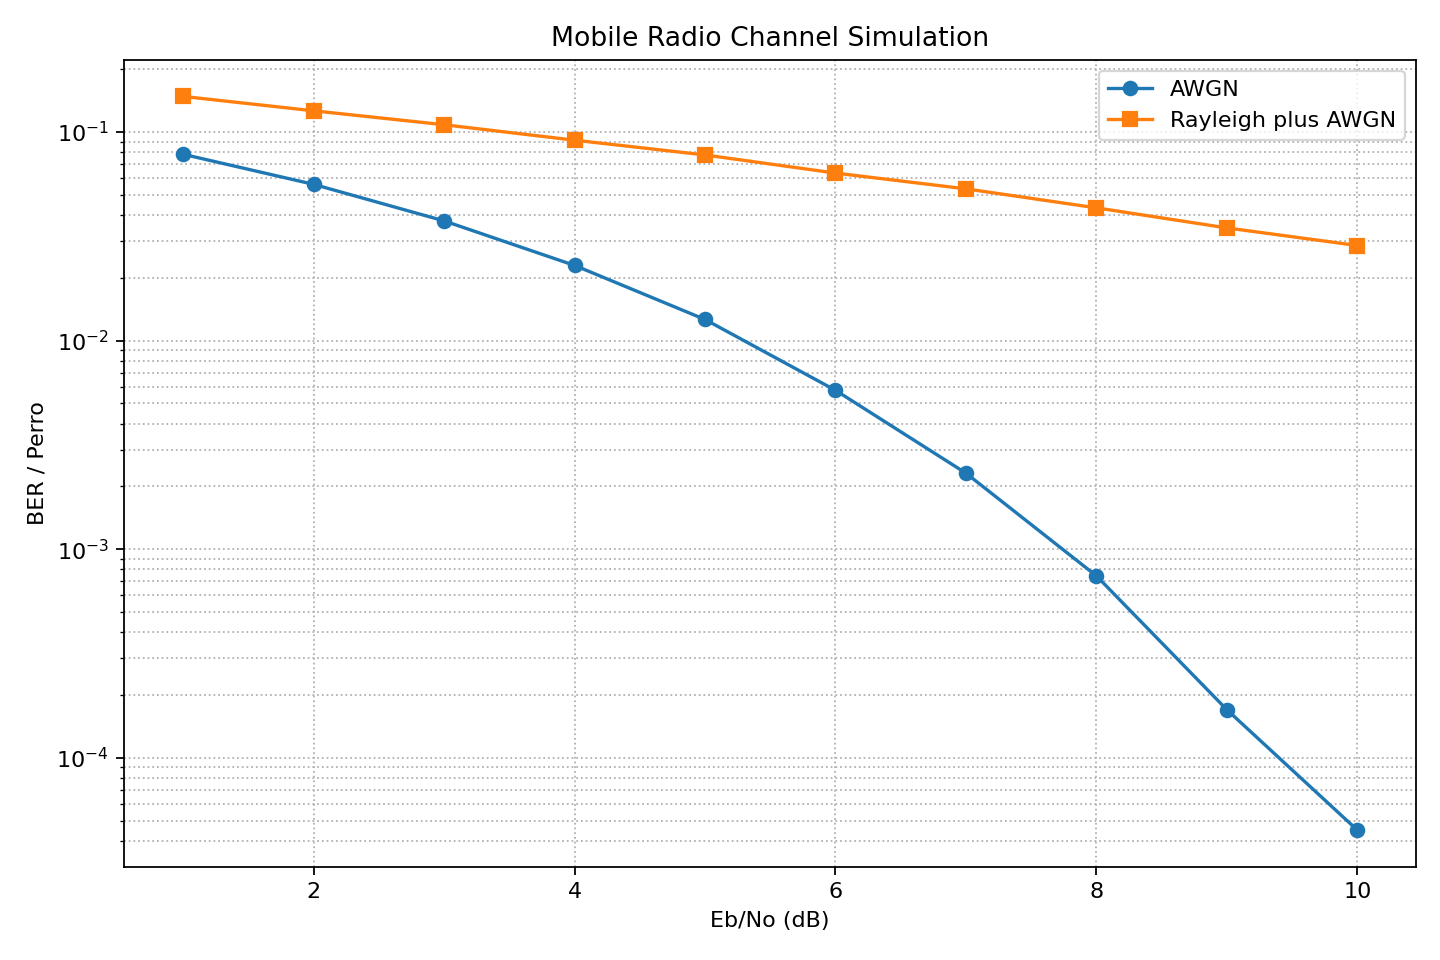
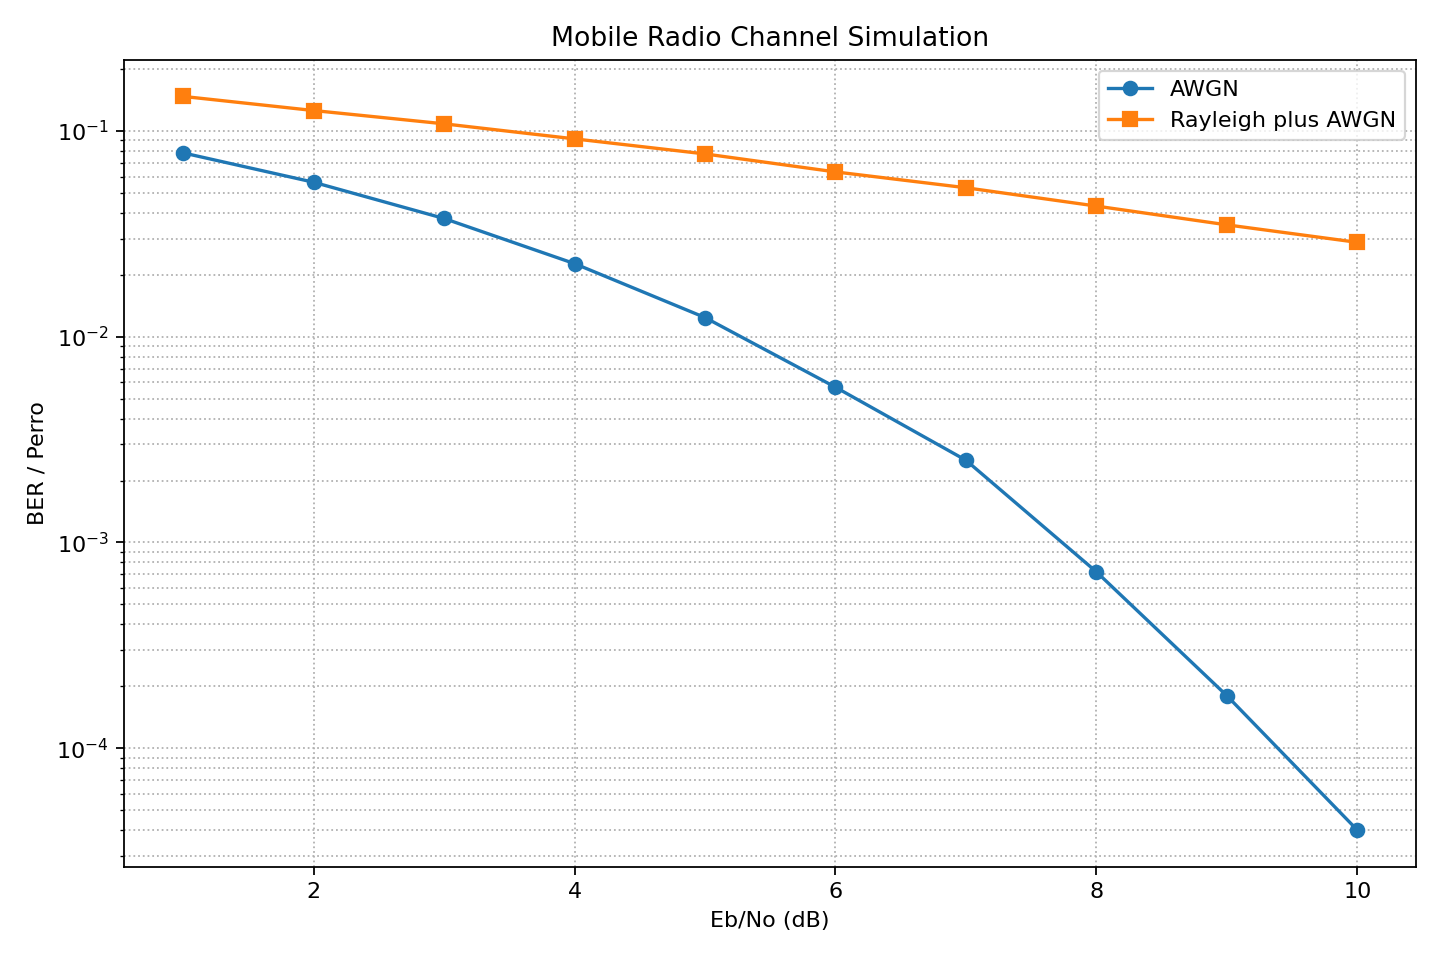
V001 project version

diff --git a/main.py b/main.py
@@ -1,80 +1,75 @@
 
 from interface import *
 import time
-
 from pathlib import Path
 import matplotlib.pyplot as plt
-
-# rng = np.random.default_rng(2026)
-
+import os
 
 #Simula
+def transmittion(limiar, resultados):
 
-LIMIAR = 200000
+    Eb_No = 0
+    while Eb_No < 10:
 
-resultados = []
+            i = 0
 
+            binary_code = gera_codigo_binario(limiar)
 
-Eb_No = 0
-while Eb_No < 10:
+            modulated_sgn_tx = modula_sgn(binary_code)
 
-        # Não precisa desse i
-        i = 0
+            # Add AWGN noise
+            sgn_awgn = add_ruido_awgn(modulated_sgn_tx, Eb_No, np.random.default_rng(2026))
 
-        binary_code = gera_codigo_binario(LIMIAR)
+            # Add Rayleigh Fading plus AWGN noise
+            sgn_ray_awgn = add_rayleigh_plus_awgn(modulated_sgn_tx, Eb_No, np.random.default_rng(2026))
 
-        modulated_sgn_tx = modula_sgn(binary_code)
-        
-        # Add AWGN noise
-        sgn_awgn = add_ruido_awgn(modulated_sgn_tx)
+            # Estimation
 
-        # canal_awgn
-        sgn_awgn = canal_awgn(np.array(modulated_sgn_tx), Eb_No, np.random.default_rng(2026)).tolist()
+            ## AWGN
+            estimation_awgn = correlation_estimation(sgn_awgn)
+            i += limiar
+            ## Rayleigh
+            estimation_ray_awgn = correlation_estimation(sgn_ray_awgn)
 
-        # Add Rayleigh Fading plus AWGN noise
-        sgn_ray_awgn = add_rayleigh_plus_awgn(modulated_sgn_tx, Eb_No, np.random.default_rng(2026))
+            # Decision error
 
-        # Estimation
+            # Error AWGN
+            error_awgn = error_decisao(estimation_awgn, binary_code)
 
-        ## AWGN
-        estimation_awgn = correlation_estimation(sgn_awgn)
-        i += LIMIAR
-        ## Rayleigh
-        estimation_ray_awgn = correlation_estimation(sgn_ray_awgn)
+            # Error Rayleigh plus AWGN
+            error_ray_awgn = error_decisao(estimation_ray_awgn, binary_code)
 
-        # Decision error
+            # Perro
 
-        # Error AWGN
-        error_awgn = error_decisao(estimation_awgn, binary_code)
+            # Perro AWGN
+            perro_awgn = perro(error_awgn, binary_code)
 
-        # Error Rayleigh plus AWGN
-        error_ray_awgn = error_decisao(estimation_ray_awgn, binary_code)
+            # Perro Rayleigh plus AWGN
+            perro_ray_awgn = perro(error_ray_awgn, binary_code)
 
-        # Perro
-
-        # Perro AWGN
-        perro_awgn = perro(error_awgn, binary_code)
-
-        # Perro Rayleigh plus AWGN
-        perro_ray_awgn = perro(error_ray_awgn, binary_code)
-
-        # print(perro_ray_awgn)
-        Eb_No+=1
+            # print(perro_ray_awgn)
+            Eb_No+=1
 
 
-        resultados.append(
-            {
-                "Eb_No": float(Eb_No),
-                "bits_simulados": float(i),
-                "BER_AWGN": perro_awgn,
-                "BER_Rayleigh_AWGN": perro_ray_awgn,
-            }
-        )
-        
-        # print(resultados)
-        time.sleep(0.01)
+            resultados.append(
+                {
+                    "Eb_No": float(Eb_No),
+                    "bits_simulados": float(i),
+                    "BER_AWGN": perro_awgn,
+                    "BER_Rayleigh_AWGN": perro_ray_awgn,
+                }
+            )
+            
+            # print(resultados)
+            time.sleep(0.01)
 
+    
+    # Salvando o resultado gráfico em imagem
+    cwd = os.getcwd()
+    path_store = Path(cwd+"\\output.png")
+    gera_grafico(resultados,path_store)
 
+    return resultados
 
 def gera_grafico(resultados, caminho_png):
     # Gera um grafico BER x Eb/No
@@ -100,11 +95,9 @@ def gera_grafico(resultados, caminho_png):
     caminho_png.parent.mkdir(parents=True, exist_ok=True)
     plt.savefig(caminho_png, dpi=160)
     plt.close()
-    # return True
 
-
-def imprimir_resultados(resultados):
-    """Mostra os resultados no terminal em formato de tabela simples."""
+def mostrar_resultados(resultados):
+   # Apenas mostrar os resultados obtidos
     print("Eb/No(dB) | BER AWGN | BER Rayleigh plus AWGN")
     print("-" * 86)
 
@@ -115,13 +108,16 @@ def imprimir_resultados(resultados):
             f"{linha['BER_Rayleigh_AWGN']:.6e}       | "
         )
 
+# TEMP
+# resultados = []
+# resultados = transmittion(200000)
 
-import os
-cwd = os.getcwd()
-path_store = Path(cwd+"\\output.png")
-print(cwd+"\\output.png")
+# import os
+# cwd = os.getcwd()
+# path_store = Path(cwd+"\\output.png")
+# print(cwd+"\\output.png")
 
 
-gera_grafico(resultados,path_store)
+# gera_grafico(resultados,path_store)
 
-imprimir_resultados(resultados)
+# mostrar_resultados(resultados)

diff --git a/interface.py b/interface.py
@@ -1,8 +1,8 @@
 from binary_number import rand_key
-from noise_awgn import noise
 from numpy import sqrt
 import random
-
+import math 
+import numpy as np
 
 def gera_codigo_binario(limiar):
     # Cria código binário - Limiar
@@ -22,17 +22,32 @@ def modula_sgn(binary_input_em_lista):
             modulated_sgn.append(-1)
     return modulated_sgn
 
-def add_ruido_awgn(modulated_sgn):
-    # Adicionando Ruído AWGN
-    sgn_awgn = []
-    for i,j in zip(modulated_sgn, noise()):
-        sgn_awgn.append(i + j)
+def noise_distribution(Eb_No, tamanho, rng: np.random.Generator):
+    # De acordo com Eb/No gera um ruído AWGN
 
+    # Lineariza o Eb/No
+    Eb_No_linear = 10.0 ** (Eb_No / 10.0)
+
+    # Energia para q bit de BPSK, inverso de Eb_No.
+    n0 = 1.0 / Eb_No_linear
+
+    # Extrai a variância do ruído a partir de n0/2.
+    variance = math.sqrt(n0 / 2.0)
+
+    # Ruido branco AWGN com distruição gaussiana.
+    noise = rng.normal(loc=0.0, scale=variance, size=tamanho)
+
+    return noise
+
+def add_ruido_awgn(modulated_sgn, Eb_No, rng):
+    # Adiciona ruído branco AWGN ao sinal recebido.
+    noise = noise_distribution(Eb_No, len(modulated_sgn), rng)
+    sgn_awgn = modulated_sgn + noise
     return sgn_awgn
 
 def add_rayleigh_plus_awgn(modulated_sgn, eb_no, rng):
 
-    sgn_awgn = gaussiana_awgn(eb_no, len(modulated_sgn), rng)
+    sgn_awgn = noise_distribution(eb_no, len(modulated_sgn), rng)
 
     # Rayleigh fading plus Noise
     sgn_ray_awgn=[]
@@ -72,26 +87,3 @@ def perro(error, binary_input_em_lista):
 
 
 
-## Fixing adding
-import math 
-import numpy as np
-
-def gaussiana_awgn(eb_no_db: float, quantidade: int, rng: np.random.Generator) -> np.ndarray:
-    """Gera ruido Gaussiano branco aditivo para um dado Eb/No em dB."""
-    eb_no_linear = 10.0 ** (eb_no_db / 10.0)
-
-    # Para BPSK com energia de bit Eb = 1, temos N0 = 1 / (Eb/No).
-    n0 = 1.0 / eb_no_linear
-
-    # Em banda base real, a variancia do ruido e N0/2.
-    sigma = math.sqrt(n0 / 2.0)
-
-    # O ruido AWGN e modelado por uma variavel aleatoria normal de media zero.
-    ruido = rng.normal(loc=0.0, scale=sigma, size=quantidade)
-    return ruido
-
-def canal_awgn(tx: np.ndarray, eb_no_db: float, rng: np.random.Generator) -> np.ndarray:
-    """Aplica o canal AWGN padrao: sinal recebido = sinal transmitido + ruido."""
-    ruido = gaussiana_awgn(eb_no_db, tx.size, rng)
-    rx = tx + ruido
-    return rx

diff --git a/binary_number.py b/binary_number.py
@@ -1,5 +1,4 @@
 # Python program for random binary string generation
-
 import random
 
 # Function to create the random binary string

diff --git a/readme.md b/readme.md
@@ -1,5 +1,6 @@
 ## Purpose
 Create a simulation of bits transmition and adding AWGN noise and Rayleigh fading.
 
-## Main file of the project
-main.py
+## How 
+my_project_v001.py
+